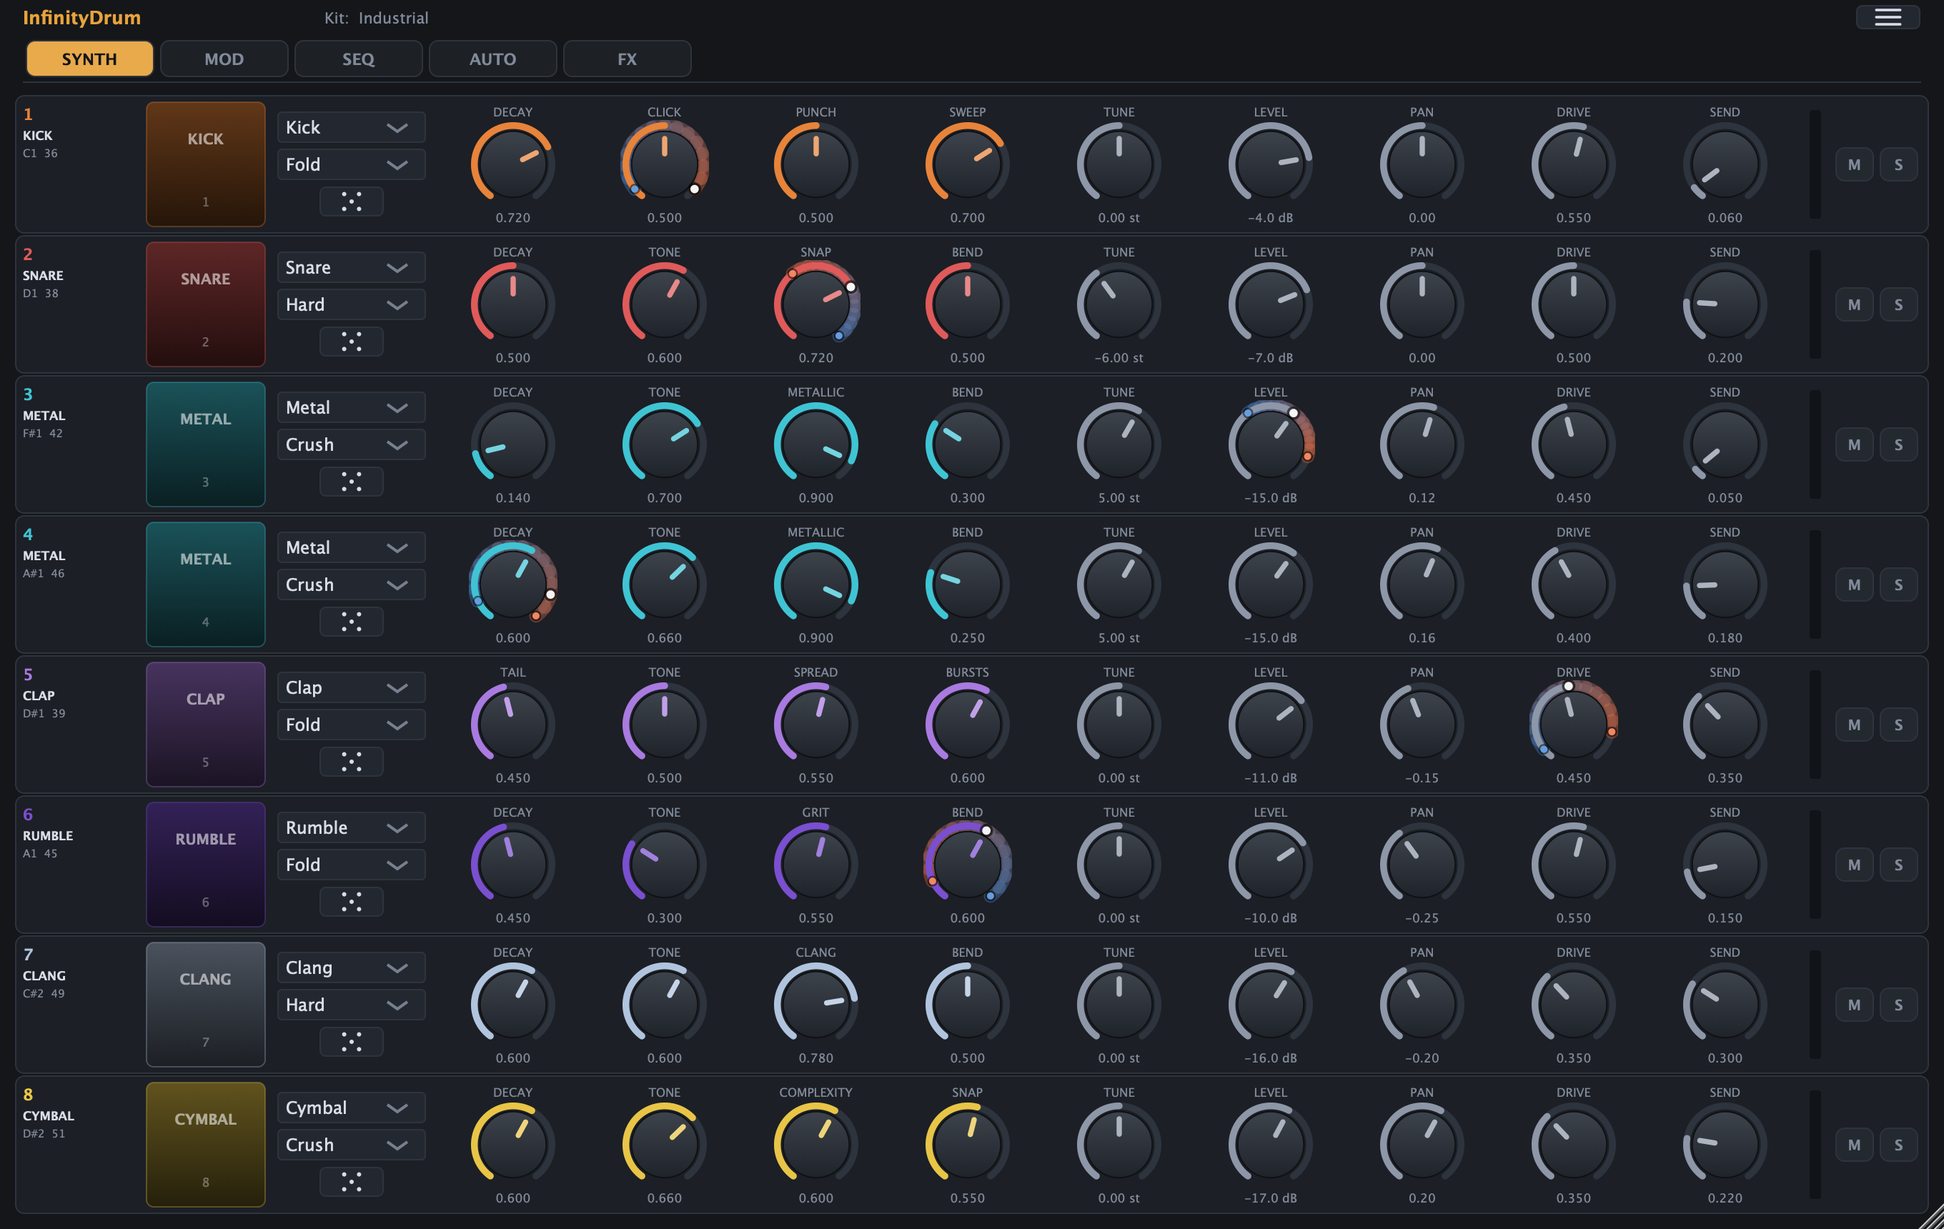
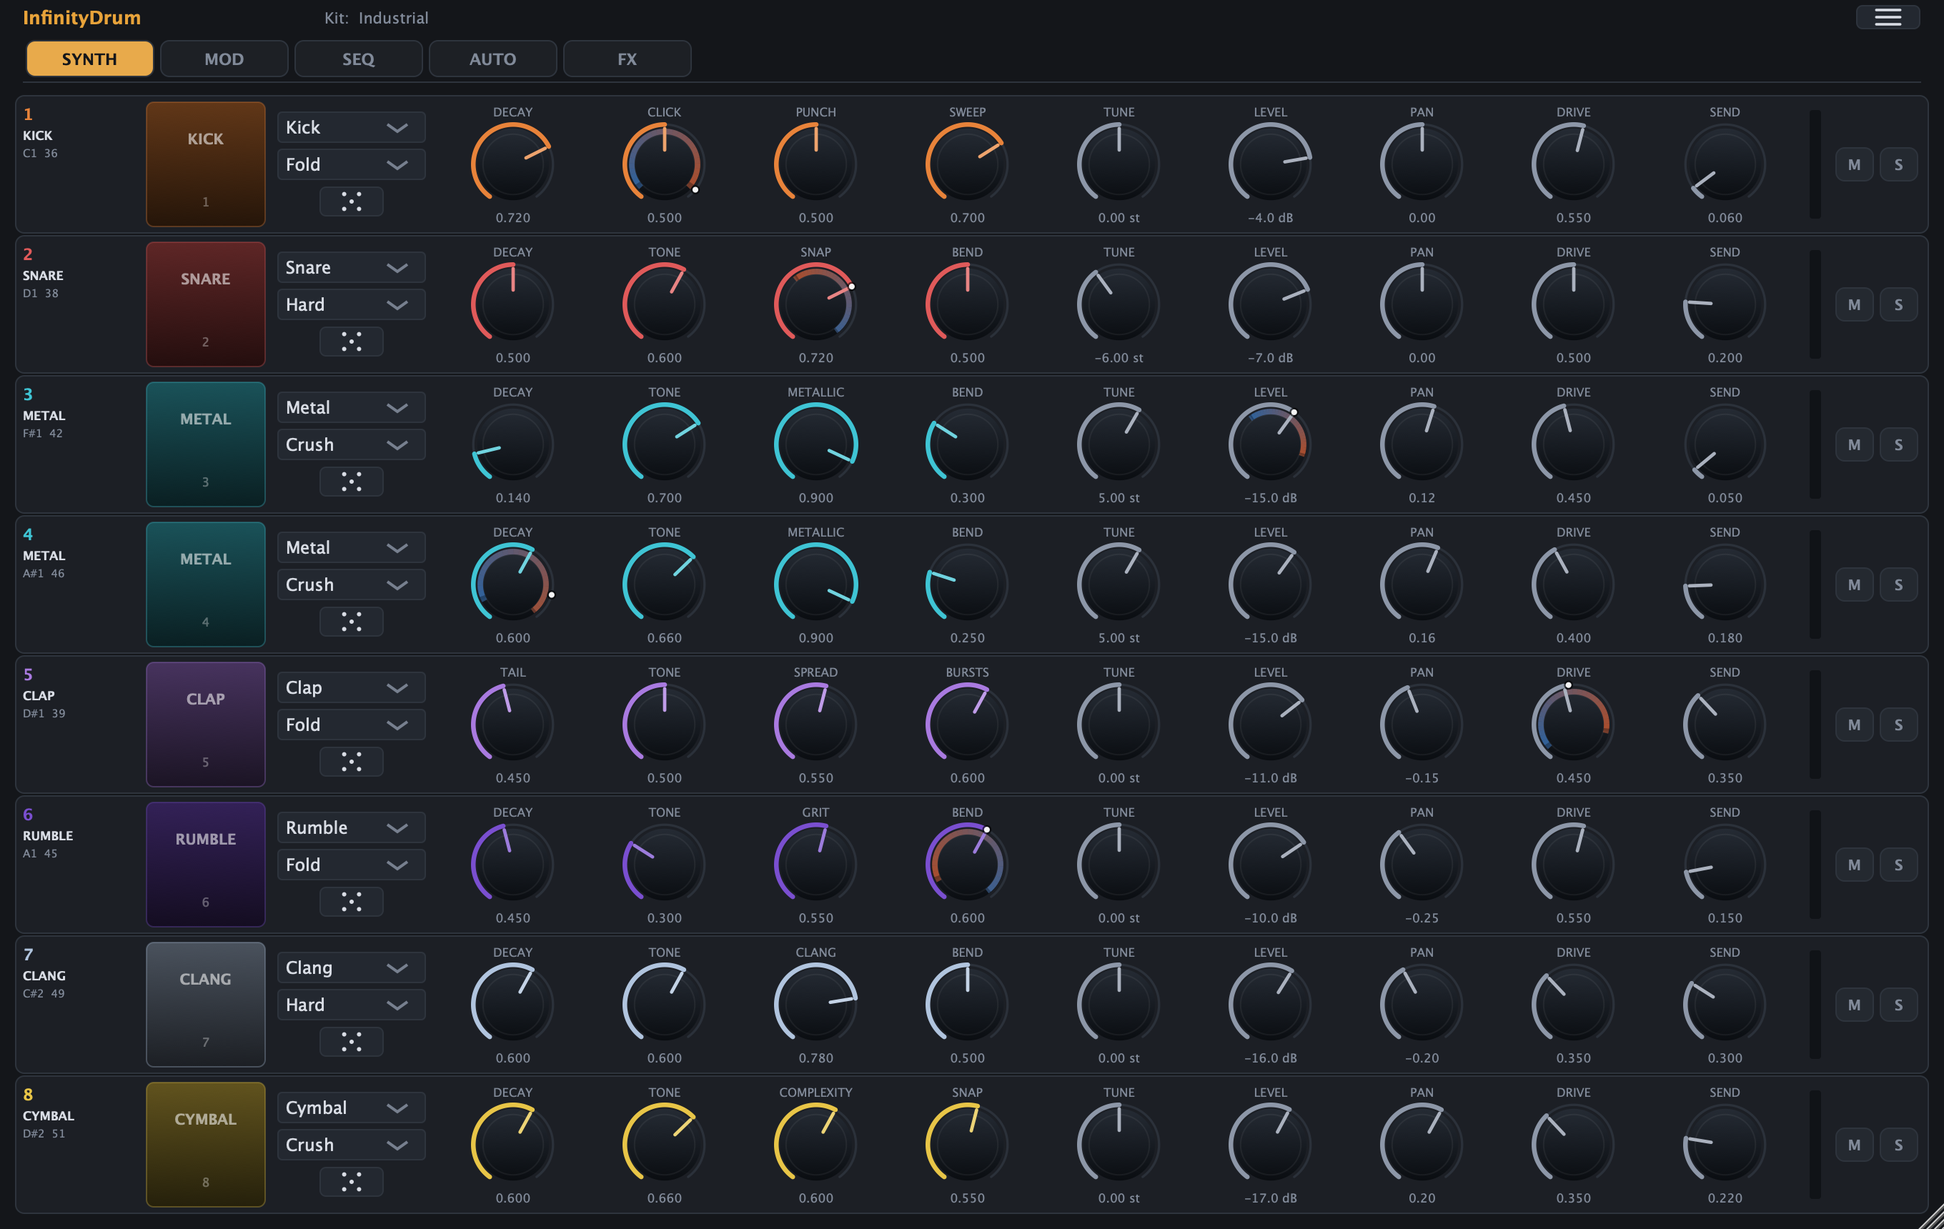
Redraw the knobs as neon rims
The dial is a dark body carrying a bright value arc and a thin radial
pointer that stops where the arc does, so the two meet at the ring rather
than a node sitting on it. The velocity range moved to an inner orbit at
0.78 of the radius, clear of the value arc; that separation is what lets
the pointer reach the ring cleanly.

The ring is thinner (11% of the radius, down from 16%) and the unfilled
track is half its weight. At 55 px that is the difference between a dial
and a donut, and it brings the proportions in line with the control study
this came from.

Glow and the band's end handles are hover affordances only: at rest the
arc is flat and the band is unmarked. With this many knobs on screen the
resting state has to stay quiet.

README and ARCHITECTURE describe the new drawing; the UI screenshot is
regenerated. Verified with InfinityDrumScreenshot at four window sizes,
InfinityDrumTests (517) and InfinityDrumHostTest (23).

diff --git a/Source/UI/VelocityKnob.cpp b/Source/UI/VelocityKnob.cpp
@@ -7,8 +7,6 @@ namespace
 {
     /** Pixels of vertical drag for a full -1..+1 sweep of the depth. */
     constexpr float depthDragPixels = 180.0f;
-
-    constexpr float bandSegments = 14.0f;
 }
 
 //==============================================================================
@@ -60,9 +58,12 @@ VelocityKnob::Geometry VelocityKnob::getGeometry() const
 
     Geometry geometry;
     geometry.centre = bounds.getCentre();
-    geometry.lineWidth = juce::jmax (2.0f, radius * 0.16f);
+    geometry.radius = radius;
+    geometry.lineWidth = juce::jmax (2.0f, radius * 0.11f);
     geometry.arcRadius = juce::jmax (1.0f, radius - geometry.lineWidth * 0.5f);
     geometry.bodyRadius = juce::jmax (2.0f, geometry.arcRadius - geometry.lineWidth * 0.85f);
+    geometry.bandRadius = radius * 0.78f;
+    geometry.bandWidth = juce::jmax (2.0f, radius * 0.13f);
     geometry.startAngle = params.startAngleRadians;
     geometry.endAngle = params.endAngleRadians;
 
@@ -98,126 +99,176 @@ void VelocityKnob::paint (juce::Graphics& g)
     const auto trackColour = findColour (juce::Slider::rotarySliderOutlineColourId);
     const bool armed = uiState.isModulationMode();
 
-    const float centre = getCentrePosition();
+    const float value = getCentrePosition();
     const float depth = getDepth();
     const bool modulated = std::abs (depth) > 1.0e-6f;
 
-    // ---- full sweep track -------------------------------------------------
+    const auto pointAt = [&] (float r, float normalised)
     {
-        juce::Path track;
-        track.addCentredArc (geometry.centre.x, geometry.centre.y, geometry.arcRadius,
-                             geometry.arcRadius, 0.0f, geometry.startAngle, geometry.endAngle, true);
-        g.setColour (trackColour);
-        g.strokePath (track, juce::PathStrokeType (geometry.lineWidth,
-                                                   juce::PathStrokeType::curved,
-                                                   juce::PathStrokeType::rounded));
+        const float angle = geometry.angleFor (normalised);
+        return juce::Point<float> (geometry.centre.x + r * std::sin (angle),
+                                   geometry.centre.y - r * std::cos (angle));
+    };
+
+    const auto arcPath = [&] (float from, float to)
+    {
+        juce::Path path;
+        path.addCentredArc (geometry.centre.x, geometry.centre.y, geometry.arcRadius,
+                            geometry.arcRadius, 0.0f, from, to, true);
+        return path;
+    };
+
+    const auto pathAt = [&] (float r, float from, float to)
+    {
+        juce::Path path;
+        path.addCentredArc (geometry.centre.x, geometry.centre.y, r, r, 0.0f, from, to, true);
+        return path;
+    };
+
+    const auto strokeGlow = [&] (const juce::Path& path, juce::Colour colour,
+                                 float width, float spread, int layers)
+    {
+        for (int i = layers; i >= 1; --i)
+        {
+            const float k = (float) i / (float) layers;
+            g.setColour (colour.withMultipliedAlpha (0.26f * (1.0f - 0.45f * k)));
+            g.strokePath (path, juce::PathStrokeType (width + spread * 2.0f * k,
+                                                      juce::PathStrokeType::curved,
+                                                      juce::PathStrokeType::rounded));
+        }
+
+        g.setColour (colour);
+        g.strokePath (path, juce::PathStrokeType (width, juce::PathStrokeType::curved,
+                                                  juce::PathStrokeType::rounded));
+    };
+
+    // ---- body ---------------------------------------------------------------
+    {
+        const auto body = juce::Rectangle<float> (geometry.bodyRadius * 2.0f,
+                                                  geometry.bodyRadius * 2.0f)
+                              .withCentre (geometry.centre);
+
+        g.setGradientFill (juce::ColourGradient (juce::Colour (0xff252b34), geometry.centre.x, body.getY(),
+                                                 juce::Colour (0xff0a0d11), geometry.centre.x, body.getBottom(),
+                                                 false));
+        g.fillEllipse (body);
+
+        g.setColour (juce::Colours::white.withAlpha (0.055f));
+        g.drawEllipse (body.reduced (geometry.bodyRadius * 0.16f), 1.0f);
     }
 
-    // ---- velocity band ----------------------------------------------------
+    // ---- velocity band, on an inner orbit ------------------------------------
     if (modulated)
     {
-        const float softEnd = juce::jlimit (0.0f, 1.0f, centre - depth);
-        const float hardEnd = juce::jlimit (0.0f, 1.0f, centre + depth);
+        const float softEnd = juce::jlimit (0.0f, 1.0f, value - depth);
+        const float hardEnd = juce::jlimit (0.0f, 1.0f, value + depth);
         const float low = juce::jmin (softEnd, hardEnd);
         const float high = juce::jmax (softEnd, hardEnd);
 
         if (high - low > 1.0e-4f)
         {
-            // Wide enough to read as a range, sheer enough that the crisp value arc
-            // drawn on top of it still clearly wins.
-            const auto bandWidth = geometry.lineWidth * 2.0f;
+            // A dark bed keeps the band reading the same over the body edge and the panel.
+            g.setColour (juce::Colour (0xff0a0c10));
+            g.strokePath (pathAt (geometry.bandRadius, geometry.angleFor (low),
+                                  geometry.angleFor (high)),
+                          juce::PathStrokeType (geometry.bandWidth, juce::PathStrokeType::curved,
+                                                juce::PathStrokeType::butt));
 
-            for (int i = 0; i < (int) bandSegments; ++i)
+            constexpr int segments = 28;
+            const float step = (high - low) / (float) segments;
+
+            for (int i = 0; i < segments; ++i)
             {
-                const float t0 = low + (high - low) * (float) i / bandSegments;
-                const float t1 = low + (high - low) * (float) (i + 1) / bandSegments;
+                // Overlapping segments, so antialiased seams do not read as blocks.
+                const float t0 = juce::jlimit (0.0f, 1.0f, low + step * ((float) i - 0.5f));
+                const float t1 = juce::jlimit (0.0f, 1.0f, low + step * ((float) i + 1.5f));
                 const float middle = 0.5f * (t0 + t1);
+                const float velocity = juce::jlimit (0.0f, 1.0f,
+                                                     0.5f + 0.5f * (middle - value) / depth);
 
-                // Colour by the velocity that lands here, not by position, so a negative
-                // depth reverses the gradient instead of merely sliding it.
-                const float velocityFraction = juce::jlimit (0.0f, 1.0f,
-                                                             0.5f + 0.5f * (middle - centre) / depth);
-
-                juce::Path segment;
-                segment.addCentredArc (geometry.centre.x, geometry.centre.y, geometry.arcRadius,
-                                       geometry.arcRadius, 0.0f,
-                                       geometry.angleFor (t0), geometry.angleFor (t1), true);
-                g.setColour (theme::velocitySoft.interpolatedWith (theme::velocityHard, velocityFraction)
-                                 .withAlpha (0.36f));
-                g.strokePath (segment, juce::PathStrokeType (bandWidth,
-                                                             juce::PathStrokeType::curved,
-                                                             juce::PathStrokeType::rounded));
+                g.setColour (theme::velocitySoft.interpolatedWith (theme::velocityHard, velocity)
+                                 .withAlpha (0.45f));
+                g.strokePath (pathAt (geometry.bandRadius, geometry.angleFor (t0),
+                                      geometry.angleFor (t1)),
+                              juce::PathStrokeType (geometry.bandWidth, juce::PathStrokeType::curved,
+                                                    juce::PathStrokeType::butt));
             }
         }
     }
 
-    // ---- value arc --------------------------------------------------------
-    if (centre > 0.002f)
+    // ---- full sweep track ----------------------------------------------------
+    // Half the value arc's weight: a groove the bright arc sits over, not a second arc.
+    g.setColour (trackColour.withAlpha (0.85f));
+    g.strokePath (arcPath (geometry.startAngle, geometry.endAngle),
+                  juce::PathStrokeType (juce::jmax (1.0f, geometry.lineWidth * 0.5f),
+                                        juce::PathStrokeType::curved,
+                                        juce::PathStrokeType::rounded));
+
+    // ---- pointer, under the ring so the two meet without a blob --------------
     {
-        juce::Path value;
-        value.addCentredArc (geometry.centre.x, geometry.centre.y, geometry.arcRadius,
-                             geometry.arcRadius, 0.0f,
-                             geometry.startAngle, geometry.angleFor (centre), true);
-        g.setColour (armed ? fillColour.withAlpha (0.35f) : fillColour);
-        g.strokePath (value, juce::PathStrokeType (geometry.lineWidth,
-                                                   juce::PathStrokeType::curved,
-                                                   juce::PathStrokeType::rounded));
-    }
+        const float pointerWidth = juce::jmax (2.0f, geometry.radius * 0.08f);
 
-    // ---- body -------------------------------------------------------------
-    const auto body = juce::Rectangle<float> (geometry.bodyRadius * 2.0f,
-                                              geometry.bodyRadius * 2.0f).withCentre (geometry.centre);
+        // The rounded cap's outer edge lands on the ring's inner edge, so the line
+        // meets the arc instead of bulging through it.
+        const float tipRadius = geometry.arcRadius
+                                  - (pointerWidth * 0.5f + geometry.lineWidth * 0.5f);
 
-    g.setGradientFill (juce::ColourGradient (juce::Colour (0xff3d434c), geometry.centre.x,
-                                             geometry.centre.y - geometry.bodyRadius,
-                                             juce::Colour (0xff1f232a), geometry.centre.x,
-                                             geometry.centre.y + geometry.bodyRadius, false));
-    g.fillEllipse (body);
-
-    g.setColour (armed ? theme::velocityHard.withAlpha (0.65f) : juce::Colour (0xff0f1114));
-    g.drawEllipse (body, armed ? 1.6f : 1.0f);
-
-    // ---- pointer at the dialled value -------------------------------------
-    {
         juce::Path pointer;
-        const auto thickness = juce::jmax (1.6f, geometry.bodyRadius * 0.16f);
-        const auto length = geometry.bodyRadius * 0.62f;
+        pointer.startNewSubPath (pointAt (geometry.radius * 0.34f, value));
+        pointer.lineTo (pointAt (tipRadius, value));
 
-        pointer.addRoundedRectangle (-thickness * 0.5f, -geometry.bodyRadius * 0.86f,
-                                     thickness, length, thickness * 0.5f);
-        pointer.applyTransform (juce::AffineTransform::rotation (geometry.angleFor (centre))
-                                    .translated (geometry.centre));
+        if (hovering)
+            strokeGlow (pointer, fillColour, pointerWidth, geometry.radius * 0.05f, 4);
 
-        g.setColour (armed ? fillColour.withAlpha (0.3f) : fillColour.brighter (0.4f));
-        g.fillPath (pointer);
+        g.setColour (armed ? fillColour.withAlpha (0.55f) : fillColour.brighter (0.35f));
+        g.strokePath (pointer, juce::PathStrokeType (pointerWidth, juce::PathStrokeType::curved,
+                                                     juce::PathStrokeType::rounded));
     }
 
-    // ---- depth handles, on top so the value arc cannot bury them ----------
-    if (modulated)
+    // ---- value arc -----------------------------------------------------------
+    if (value > 0.002f)
     {
-        const float softEnd = juce::jlimit (0.0f, 1.0f, centre - depth);
-        const float hardEnd = juce::jlimit (0.0f, 1.0f, centre + depth);
+        const auto valuePath = arcPath (geometry.startAngle, geometry.angleFor (value));
+
+        if (hovering)
+        {
+            strokeGlow (valuePath, fillColour, geometry.lineWidth, geometry.radius * 0.06f, 6);
+        }
+        else
+        {
+            g.setColour (armed ? fillColour.withAlpha (0.35f) : fillColour);
+            g.strokePath (valuePath, juce::PathStrokeType (geometry.lineWidth,
+                                                           juce::PathStrokeType::curved,
+                                                           juce::PathStrokeType::rounded));
+        }
+    }
+
+    // ---- drag clue: the band's ends, on hover only ---------------------------
+    if (modulated && hovering)
+    {
+        const float softEnd = juce::jlimit (0.0f, 1.0f, value - depth);
+        const float hardEnd = juce::jlimit (0.0f, 1.0f, value + depth);
 
         for (int end = 0; end < 2; ++end)
         {
             const float position = end == 0 ? softEnd : hardEnd;
             const auto colour = end == 0 ? theme::velocitySoft : theme::velocityHard;
-            const auto point = geometry.pointAt (position);
-            const auto size = geometry.lineWidth * (hovering || armed ? 1.4f : 1.05f);
+            const auto point = pointAt (geometry.bandRadius, position);
+            const auto size = juce::jmax (2.0f, geometry.radius * 0.10f);
 
-            g.setColour (juce::Colours::black.withAlpha (0.5f));
-            g.fillEllipse (juce::Rectangle<float> (size * 1.5f, size * 1.5f).withCentre (point));
-            g.setColour (colour.brighter (0.25f));
+            g.setColour (juce::Colours::black.withAlpha (0.6f));
+            g.fillEllipse (juce::Rectangle<float> (size * 1.7f, size * 1.7f).withCentre (point));
+            g.setColour (colour.brighter (0.3f));
             g.fillEllipse (juce::Rectangle<float> (size, size).withCentre (point));
         }
     }
 
-    // ---- dot at where the last hit actually landed ------------------------
+    // ---- dot at where the last hit actually landed ---------------------------
     if (modulated)
     {
         const float bipolar = velocityBipolar (processor.getLastVelocity (trackIndex));
-        const float effective = juce::jlimit (0.0f, 1.0f, centre + depth * bipolar);
-        const auto point = geometry.pointAt (effective);
+        const float effective = juce::jlimit (0.0f, 1.0f, value + depth * bipolar);
+        const auto point = pointAt (geometry.arcRadius, effective);
 
         g.setColour (juce::Colours::black.withAlpha (0.6f));
         g.fillEllipse (juce::Rectangle<float> (geometry.lineWidth * 2.0f,
@@ -225,13 +276,6 @@ void VelocityKnob::paint (juce::Graphics& g)
         g.setColour (juce::Colours::white.withAlpha (0.95f));
         g.fillEllipse (juce::Rectangle<float> (geometry.lineWidth * 1.25f,
                                                geometry.lineWidth * 1.25f).withCentre (point));
-    }
-
-    // ---- hover ------------------------------------------------------------
-    if (hovering && ! armed)
-    {
-        g.setColour (juce::Colours::white.withAlpha (0.16f));
-        g.drawEllipse (body, 1.0f);
     }
 }
 

diff --git a/Source/UI/VelocityKnob.h b/Source/UI/VelocityKnob.h
@@ -22,6 +22,11 @@ namespace df
 
     On the MOD page the whole knob edits depth instead of value, so the target is large and
     obvious and the numeric readout switches to showing the depth.
+
+    The dial is mostly dark: a bright value arc, a short radial pointer that ends where that
+    arc does, and the velocity range as a band on an inner orbit. The glow and the band's end
+    handles are hover affordances only - at rest the knob stays quiet, which matters with
+    seventy-odd of them on screen.
 */
 class VelocityKnob final : public juce::Slider
 {
@@ -56,8 +61,11 @@ private:
     struct Geometry
     {
         juce::Point<float> centre;
+        float radius = 0.0f;
         float arcRadius = 0.0f;
         float bodyRadius = 0.0f;
+        float bandRadius = 0.0f;
+        float bandWidth = 0.0f;
         float lineWidth = 0.0f;
         float startAngle = 0.0f;
         float endAngle = 0.0f;

diff --git a/ARCHITECTURE.md b/ARCHITECTURE.md
@@ -433,7 +433,8 @@ measuring the previous hit still ringing. It now renders past the decay first.
 `InfinityDrumLookAndFeel` deliberately does **not** implement `drawRotarySlider`. A LookAndFeel
 instance serves every control in the editor, so it cannot hold per-knob state like a
 modulation depth. `VelocityKnob` is a `Slider` subclass that draws its own band, dot and
-pointer, and handles rim-drag for depth.
+pointer, and handles rim-drag for depth. The dial is quiet at rest: the glow and the two
+handles marking the band's ends are hover affordances only.
 
 ### The band and the audio share one implementation
 
@@ -490,8 +491,10 @@ Smaller decisions, each of which was made for a reason:
   the pointer does, including on a skewed range.
 - **Depth handles are drawn on top of the value arc**, so the arc cannot bury the thing you
   are meant to grab.
-- **The band is drawn wide but sheer** — wide enough to read as a range, translucent enough
-  that the crisp value arc on top still wins.
+- **The band sits on an inner orbit, not on the ring** — so the range and the value never
+  compete, and the pointer can meet the value arc without a node between them.
+- **Glow and the band's end handles are hover-only.** With seventy-odd knobs on screen the
+  resting state has to stay quiet; hovering is what makes a dial announce itself.
 - **The level meter floors at −60 dB** and normalises over `(dB + 48) / 54`, going hot above
   0.86.
 - **The editor ticks at 30 Hz**, enough for meters and pad glow without repainting the window

diff --git a/README.md b/README.md
@@ -184,10 +184,12 @@ flat until you ask for dynamics. Modulation is latched at note-on, so a ringing 
 the character it was struck with while other tracks move on.
 
 A modulated knob shows three things: the **pointer** at the value you dialled, a coloured
-**band** spanning every position velocity can reach, and a **dot** where the most recent hit
-actually landed. The band is a gradient, cool for a soft hit and hot for a hard one, and it
-is coloured by velocity rather than by screen position — so a negative depth visibly
-*reverses* the gradient rather than merely sliding it.
+**band** on an inner track spanning every position velocity can reach, and a **dot** where the
+most recent hit actually landed. The band is a gradient, cool for a soft hit and hot for a hard
+one, and it is coloured by velocity rather than by screen position — so a negative depth
+visibly *reverses* the gradient rather than merely sliding it. Hovering a knob makes it glow and
+reveals the small handles at the band's ends; at rest the dial stays quiet, which is what keeps
+a screen of seventy of them readable.
 
 | Gesture | Effect |
 |---|---|
